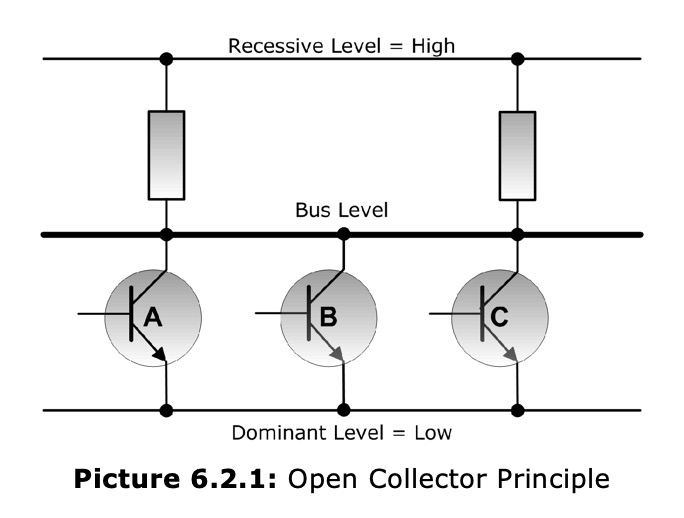
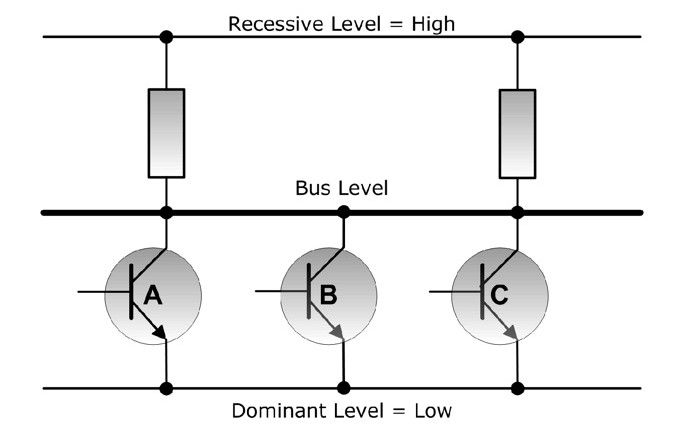
MT-61

diff --git a/3-Introduction/Introduction.tex b/3-Introduction/Introduction.tex
@@ -1,13 +1,12 @@
 \documentclass[../main.tex]{subfiles}
 \begin{document}
-\section{Introduction}
 In the last 50 years car have transitioned from being composed only by mechanical parts to being completely stacked with electronics. The complexity of vehicles arises every year and the industry continuously raise the bar on the state of the arts. The transitions to electro-mobility, the ADAS systems have done all but slowing down the development. The more a topic is market relevant, the higher the competition between companies, the faster the development in that field is going to be. The automakers are always ready to exploit or create new needs in order to adapt and attract customers. Automotive pulse of innovation and the "German Silicon Valley" is the place a engineer want to be to fell part of this complex, but for sure perfectly oiled, machine.   
 \begin{figure}
 \centering
 \begin{minipage}{.5\textwidth}
   \centering
   \includegraphics[width=\linewidth]{images_folder/4a56e1d50b56da42a10e29d451cf2b93.jpg}
-  \caption{BMW 320 Coupe E21 - 1975}
+  \caption{BMW 320 Coupe - 1975}
   \label{fig:test1}
 \end{minipage}%
 \begin{minipage}{.5\textwidth}
@@ -21,8 +20,16 @@ In the last 50 years car have transitioned from being composed only by mechanica
 \section{Block Schema of a car}
 The complexity of system car can be easily simplified by block schemes. Block schemes are going to be a recursive topic during the thesis, thanks to the outside view that allow to have on complex topics. 
 
-The input to the system car can be an array of driver commands, such as the steering position, accelerator pressure and all the switches that control the car. The output of the system is the movement of the car, the feedback loop report to the user not only the position in space but also other feedback parameter as the drive comfort or more simply if the light of the headlight is enough for the lighting the road. The complex black box car can then inspect further. Inside the system car we can identify two main blocks. The mechanical one and the electrical one. We can see how feedback loop start to intersect with each other. The electronics drive the mechanics which output is taken back from the electronic to better the response. The system car can be considered a complex version of an embedded system where electronics drive mechanics following a logic stored in a CPU under the guise of code lines. 
-
-
+The input to the car block can be an array of driver commands, such as the steering position, accelerator pressure and all the switches that control the car. The output of the system is the movement of the car, the feedback loop report to the user not only the position in space but also parameters as the drive comfort or the temperature in the vehicle. The car block can therefor be inspect further. Inside the system car we can identify two main blocks. The mechanical one and the electrical one. We can see how feedback loop start to intersect with each other. The electronics drive the mechanics which output is taken back to the electronic to correct the response. The system car can be considered a complex version of an embedded system where electronics drive mechanics following a logic described in lines of code.
+Inside the automotive world the trend that has drawn more differences in the way car are constructed is in the electronic components side. if the cost related to the development of mechanical components, safety features and logistic increased constantly through the years, the cost related to the electronic components exponentially increased. Every mechanical component in cars has probably some electronic hardware related to it which is controlled by one of the many ECUs (Electronic control Units) in the vehicle. The increase in hardware requires an increase in the software in order to control it. The yearly increase in lines of code for cars reported in \ref{fig:yearlyincreas} is a statement supporting of the importance of software. 
+\begin{figure}[H]
+    \centering
+    \includegraphics[width=\linewidth]{images_folder/Yearly-increase-in-automotive-software-complexity-shown-by-million-lines-of-code-of-1-ConvertImage.png}
+    \caption{Yearly increase in automotive software complexity}
+    \label{fig:yearlyincreas}
+\end{figure}
+The brain of a modern car is represented by the combination of all the different ECUs, providing control for the different parts, from the motor to the door control. 
+\section{Software and ECUs}
+The development of Software for ECUs is an extremely complex task, a single ECU can control up to a 1000 functions, and the number can be also higher for the control of complex systems, such as the motor. The other big problem is that the function need to be developed in order to work together 
 \cleardoublepage
 \end{document}

diff --git a/5-Chapter_Ecu_structure/Ecu_structure.tex b/5-Chapter_Ecu_structure/Ecu_structure.tex
@@ -83,7 +83,7 @@ I_{2} = 11001011011
 \begin{equation}
 I_{3} = 11001011001
 \end{equation}
-\begin{figure}[h]
+\begin{figure}[ht]
     \centering
     \includegraphics[width=\linewidth]{images_folder/can_arbitration.png}
     \caption{CAN arbitration}
@@ -93,11 +93,11 @@ As exemplified in \ref{fig:CANABR} the nodes starts by sending the SOF, then the
 It´s important to underline the fact that there is no message destination address in CAN, instead each node picks up all the traffic on the bus.\\
 In order to better understand the can arbitration mechanism consider the following example in which the can nodes are exemplified by open collector transistors. 
 The level of the bus is at a low level (dominant) in case any number of transistor in the network output a dominant level (that is why zero is dominant, only one transistor is closed an the whole bus sees a zero on it). The bus will only be at high level (recessive) when all the transistors in the network output a recessive level (the transistors are open, putting a 1 on the bus).
-\begin{figure}[h]
+\begin{figure}[ht]
     \centering
-    \includegraphics[width=\linewidth]{images_folder/can_arbitration.png}
-    \caption{CAN arbitration}
-    \label{fig:CANABR}
+    \includegraphics[width=\linewidth]{images_folder/controller-area-network-can-bus-bus-arbitration-3.jpg}
+    \caption{CAN Arbitration -  electrical scheme}
+    \label{fig:CANABRELT}
 \end{figure}
 \section{AUTOSAR}
 AUTomotive Open System ARchitecture (AUTOSAR) is an open and standardize automotive software architecture, jointly develop by automobile manufacturers, supplier and tool developer. AUTOSAR architecture was introduced to promote standardization of the software development process of Automotive Electronic Control Units (German: Steuergerät). Prior to the introduction of Autosar ECU software needed to be completely fitted around the components architecture, decreasing to close to zero the portability over different ECU platforms and between different producer. 
@@ -160,12 +160,12 @@ The design can be done aoviding entering inECU specific details. To create a rea
 \section{Model based design}
 \subsection{Introduction}
 Inside the automotive world the trend that has drawn more differences in the way car are constructed is in the electronic components side. if the cost related to the development of mechanical components, safety features and logistic increased constantly through the years, the cost related to the electronic components exponentially increased. What once was a mechanical system is most probably going to be a embedded system nowadays. The increase in hardware related to embedded components requires an increase in the software in order to control it. The yearly increase in lines of code for car is a statement in support of the importance of software. 
-\begin{figure}[H]
-    \centering
-    \includegraphics[width=\linewidth]{images_folder/Yearly-increase-in-automotive-software-complexity-shown-by-million-lines-of-code-of-1-ConvertImage.png}
-    \caption{Yearly increase in automotive software complexity}
-    \label{fig:yearlyincreas}
-\end{figure}
+% \begin{figure}[H]
+%     \centering
+%     \includegraphics[width=\linewidth]{images_folder/Yearly-increase-in-automotive-software-complexity-shown-by-million-lines-of-code-of-1-ConvertImage.png}
+%     \caption{Yearly increase in automotive software complexity}
+%     \label{fig:yearlyincreas}
+% \end{figure}
 Software development therefor faces new challenges, related to shorten development time, a high need of scalability  not only in the software but also in the development platforms, complex safety requirements and adaptability over continuously changing hardware.\\
 Model based design has entered the automotive conversation because it can full fill the previously reported challenges. The model based approach brings two main characteristic to the table: on the one hand it gives a development platform which is component independent, therefor allowing for better integration through rapidly changing hardware, on the other hand makes the integration of new features not time depended. In this sense it recall a concept similar to Scurm, where changes are welcomed during the whole development process. in this case, with model based design, changes are welcomed during the whole life of the software.
 \subsection{Model based design}

diff --git a/4-Chapter_Agile/Agile.tex b/4-Chapter_Agile/Agile.tex
@@ -343,7 +343,7 @@ Waterfall methods are still in great usage, the main feature is that the develop
     \centering
     \includegraphics[width=\linewidth]{images_folder/waterfall.png}
     \caption{Waterfall product development}
-    \label{fig:scrumprddev}
+    \label{fig:swaterrddev}
 \end{figure}
 The task is the same described in the Scrum process, the required product is an automatic coffee machine. The team, following the waterfall method splits in sub teams for the first step of components design. The outputs of what in a time manner could be compared to a Scrum Sprint are the ideas on how to full fill the requirements. The next step is the production and unit test of each components. Each team in the example produces and test the assigned components. The output of the second step in the process are the fully completed components. The last step is integration. The teams, integrate the components with the other developed by different groups. Obviously the process is not flawless, because the team only discover at this step how the others developed a certain requirements. At the end the team full fill all the requirements and release a product identical to the one developed following the Scrum methodology.\\ There are, indeed a lot of differences, which favor the Scrum approach.
 \begin{itemize}
